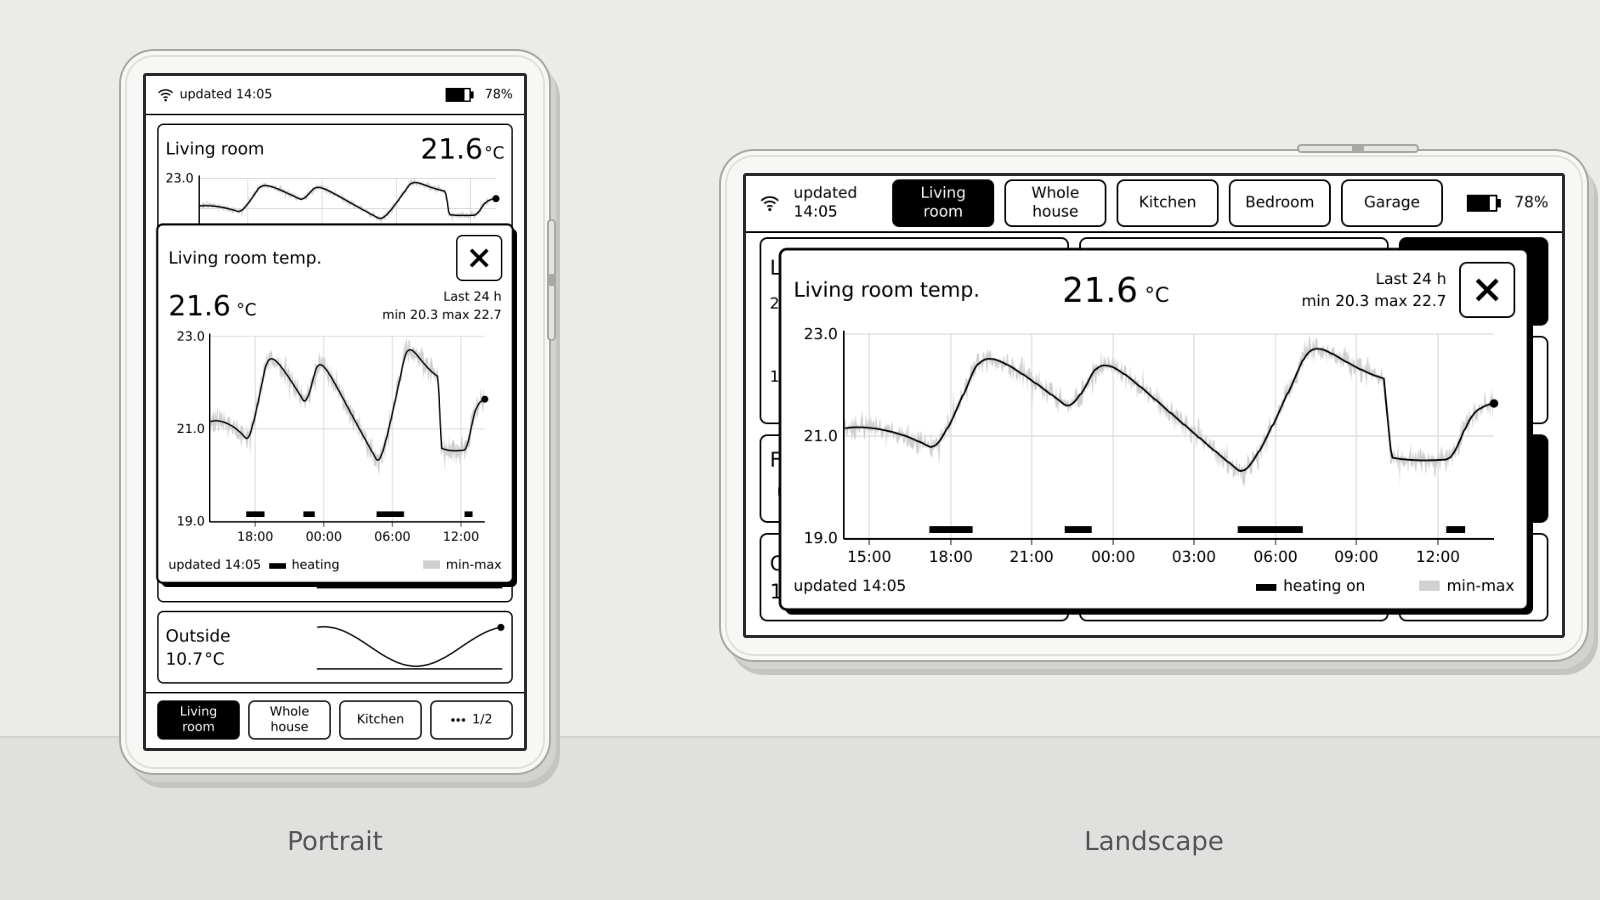
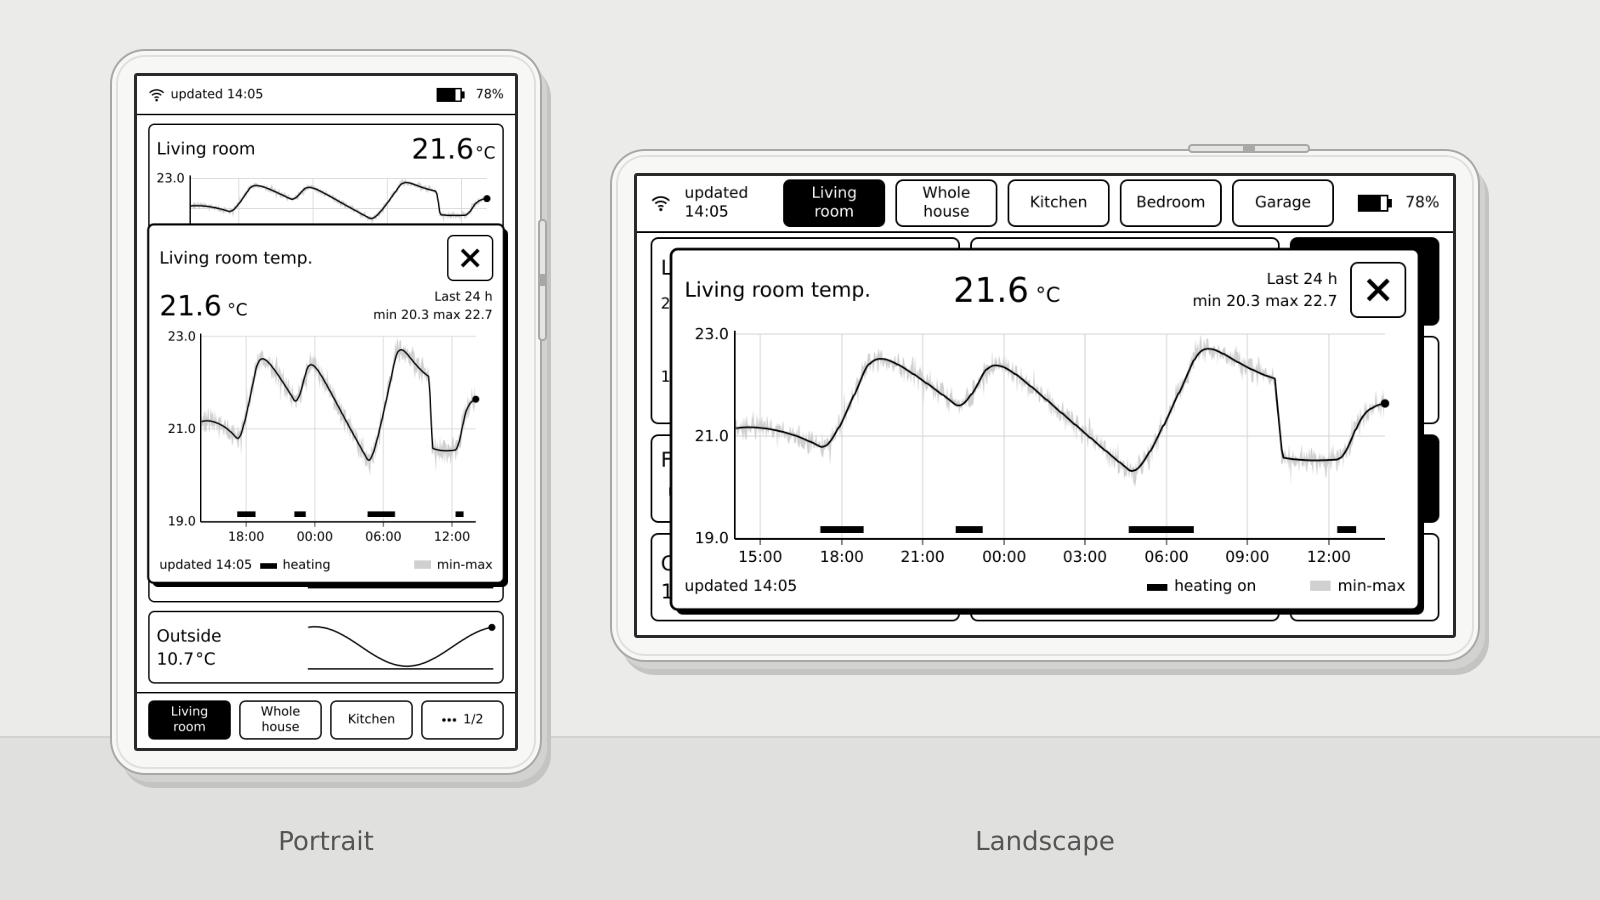
task 073: center showcase composites; done after user check

diff --git a/tools/showcase/gen_showcase_composites.py b/tools/showcase/gen_showcase_composites.py
@@ -28,10 +28,10 @@ def comp(name, p_png, l_png, cp, cl, comment):
     out = (f'<svg xmlns="http://www.w3.org/2000/svg" xmlns:xlink="http://www.w3.org/1999/xlink" width="{W}" height="{H}" viewBox="0 0 {W} {H}" font-family="DejaVu Sans">\n<!-- {comment} -->\n'
            f'<g id="w-1"><rect id="w-1-frame" x="0" y="0" width="{W}" height="{H}" fill="none"/></g>\n'
            f'<rect x="0" y="0" width="{W}" height="{H}" fill="#ebebe9"/>\n<rect x="0" y="738" width="{W}" height="162" fill="#e0e0de"/>\n<rect x="0" y="736" width="{W}" height="2" fill="#d2d2d0"/>\n')
-    s, bw, bh = device(120, 50, 540, 960, 0.70, p_png, "p")
-    out += s; out += cap(120+bw//2, 868 if False else 850, cp)
-    s2, bw2, bh2 = device(720, 150, 960, 540, 0.85, l_png, "l")
-    out += s2; out += cap(720+bw2//2, 850, cl)
+    s, bw, bh = device(111, 50, 540, 960, 0.70, p_png, "p")
+    out += s; out += cap(111+bw//2, 868 if False else 850, cp)
+    s2, bw2, bh2 = device(611, 150, 960, 540, 0.85, l_png, "l")
+    out += s2; out += cap(611+bw2//2, 850, cl)
     return out + "</svg>\n"
 open(UI+"showcase-device.svg", "w").write(comp("a", "png/showcase-tab-portrait.png", "png/showcase-popup-landscape.png", "Graph widgets on the tab", "Long press: 24 h history", "Showcase composite (task 073): light device frames around the rendered mockups."))
 open(UI+"showcase-device-tabs.svg", "w").write(comp("b", "png/showcase-tab-portrait.png", "png/showcase-tab-landscape.png", "Portrait", "Landscape", "Showcase composite, GIF frame 1."))

diff --git a/docs/tasks/README.md b/docs/tasks/README.md
@@ -72,7 +72,7 @@
 | 069 | [A more pleasant Inkhaus Installer UI](069-installer-ui.md) | done | 062, 064 |
 | 070 | [User-friendly README](070-readme-user-friendly.md) | done | 063, 065 |
 | 071 | [History graph widget](071-history-widget.md) | in-progress | 049, 052, 053, 055 |
-| 073 | [Showcase the history graph in the README and website](073-showcase-history.md) | todo | 071, 070, 065 |
+| 073 | [Showcase the history graph in the README and website](073-showcase-history.md) | done | 071, 070, 065 |
 
 ## Open items (not yet tasks, 2026-10-30)
 - 045: `supported_color_modes` is not in the state cache; a cached boot falls back to the `brightness` attribute.

diff --git a/docs/tasks/073-showcase-history.md b/docs/tasks/073-showcase-history.md
@@ -1,6 +1,6 @@
 # 073: Showcase the history graph in the README and on the website
 
-Status: todo
+Status: done
 Depends on: 071, 070, 065
 UI spec: docs/ui/history-widget.md, docs/ui/website.md
 Needs device: no
@@ -26,3 +26,4 @@ Out of scope: new firmware features.
 - [ ] User approves the look.
 
 ## Notes
+- Done 2026-10-30: the user approved the look in the browser. Composites centered (margins 110/111 px). Page weight 893 KiB.
